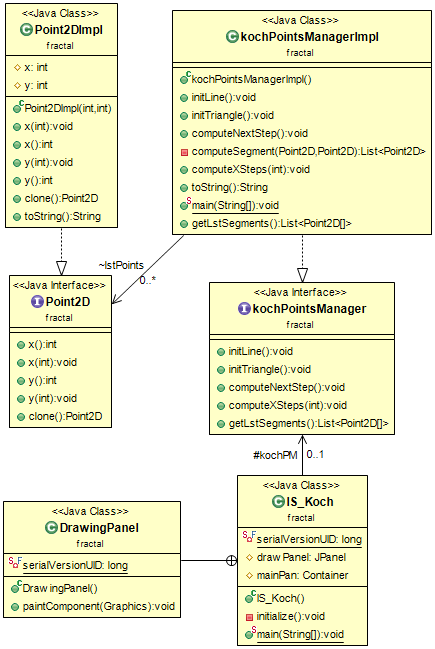
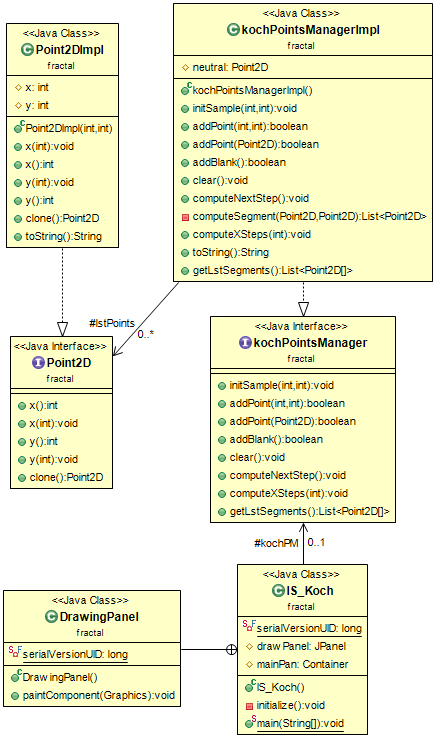
Koch snowflake
TODO : 
- resize with GUI
- add settings (iteration / randomSample / computation speed)
- add usage

Changed region(s): [[0.0, 0.0, 1.0, 1.0]]

diff --git a/src/fractal/kochPointsManagerImpl.java b/src/fractal/kochPointsManagerImpl.java
@@ -5,24 +5,52 @@ import java.util.LinkedList;
 
 
 public class kochPointsManagerImpl implements kochPointsManager {
-	List<Point2D> lstPoints;
+	protected List<Point2D> lstPoints;
+	protected Point2D neutral = null;
 
 	public kochPointsManagerImpl(){
 		lstPoints = new LinkedList<Point2D>();
 	}
 
 	@Override
-	public void initLine() {
-		
-		
+	public void initSample(int w,int h) {
+		/*
+		 * cross
+		 *
+		Point2D A = new Point2DImpl(0,h/2);
+		Point2D B = new Point2DImpl(w,h/2);
+		Point2D A2 = new Point2DImpl(w/2,0);
+		Point2D B2 = new Point2DImpl(w/2,h);
+		lstPoints.add(A);
+		lstPoints.add(B);
+		lstPoints.add(A);
+		lstPoints.add(neutral);
+		lstPoints.add(A2);
+		lstPoints.add(B2);
+		lstPoints.add(A2);	
+		*/
+		/*
+		 * diagonals
+		 *
+		Point2D A = new Point2DImpl(0,0);
+		Point2D B = new Point2DImpl(w,h);
+		Point2D A2 = new Point2DImpl(w,0);
+		Point2D B2 = new Point2DImpl(0,h);
+		lstPoints.add(A);
+		lstPoints.add(B);
+		lstPoints.add(A);
+		lstPoints.add(neutral);
+		lstPoints.add(A2);
+		lstPoints.add(B2);
+		lstPoints.add(A2);	
+		*/
 		/*
 		 * rectangle complet
-		 * 
-		 */
-		Point2D A = new Point2DImpl(100,170);
-		Point2D B = new Point2DImpl(680,170);
-		Point2D C = new Point2DImpl(680,390);
-		Point2D D = new Point2DImpl(100,390);
+		 *
+		Point2D A = new Point2DImpl(w/4,h/4);
+		Point2D B = new Point2DImpl(w/4 + 2*w/4,h/4);
+		Point2D C = new Point2DImpl(w/4 + 2*w/4,h/4 + 2*h/4);
+		Point2D D = new Point2DImpl(w/4 ,h/4 + 2*h/4);
 		lstPoints.add(A);
 		lstPoints.add(B);
 		lstPoints.add(C);
@@ -32,49 +60,47 @@ public class kochPointsManagerImpl implements kochPointsManager {
 		lstPoints.add(C);
 		lstPoints.add(B);
 		lstPoints.add(A);
-		
+		*/
 		
 		/* rectangle int
-		 * 
-		Point2D A = new Point2DImpl(25,20);
-		Point2D B = new Point2DImpl(755,20);
-		Point2D C = new Point2DImpl(755,540);
-		Point2D D = new Point2DImpl(25,540);
+		 *
+		 *
+		Point2D A = new Point2DImpl(20,20);
+		Point2D B = new Point2DImpl(20+w-40,20);
+		Point2D C = new Point2DImpl(20+w-40,20+h-40);
+		Point2D D = new Point2DImpl(20 ,20+h-40);
 		lstPoints.add(A);
 		lstPoints.add(B);
 		lstPoints.add(C);
 		lstPoints.add(D);
 		lstPoints.add(A);
-		 */
-		/***
+		*/
+		/*
 		 * line
-		 *//*
-		Point2D A = new Point2DImpl(750,275);
-		Point2D B = new Point2DImpl(25,275);
+		 *
+		Point2D A = new Point2DImpl(20,h/2);
+		Point2D B = new Point2DImpl(20+w-40,h/2);
 		lstPoints.add(A);
 		lstPoints.add(B);
 		lstPoints.add(A);
 		*/
-	}
-
-	@Override
-	public void initTriangle() {
 		/*
 		 * flocon
 		 */
-		Point2D A = new Point2DImpl(400,20);
-		Point2D B = new Point2DImpl(175,410);
-		Point2D C = new Point2DImpl(625,410);
+		Point2D A = new Point2DImpl(w/2,10);
+		Point2D B = new Point2DImpl(w/5,3*h/4-10);
+		Point2D C = new Point2DImpl(4*w/5,3*h/4-10);
 		lstPoints.add(A);
 		lstPoints.add(B);
 		lstPoints.add(C);
 		lstPoints.add(A);
+		
 		/*
 		 * triangle interne
-		 * 
-		Point2D B = new Point2DImpl(400,10);
-		Point2D A = new Point2DImpl(100,535);
-		Point2D C = new Point2DImpl(700,535);
+		 *
+		Point2D B = new Point2DImpl(w/2,10);
+		Point2D A = new Point2DImpl(w/2-(h-20)/2,h-10);
+		Point2D C = new Point2DImpl(w/2+(h-20)/2,h-10);
 		lstPoints.add(A);
 		lstPoints.add(B);
 		lstPoints.add(C);
@@ -84,9 +110,9 @@ public class kochPointsManagerImpl implements kochPointsManager {
 		/*
 		 * triangle complet
 		 * 
-		Point2D A = new Point2DImpl(400,20);
-		Point2D B = new Point2DImpl(175,410);
-		Point2D C = new Point2DImpl(625,410);
+		Point2D A = new Point2DImpl(w/2,10);
+		Point2D B = new Point2DImpl(w/5,3*h/4-10);
+		Point2D C = new Point2DImpl(4*w/5,3*h/4-10);
 		lstPoints.add(A);
 		lstPoints.add(B);
 		lstPoints.add(C);
@@ -94,10 +120,30 @@ public class kochPointsManagerImpl implements kochPointsManager {
 		lstPoints.add(C);
 		lstPoints.add(B);
 		lstPoints.add(A); 
-		 * 
 		 */
+		 
 	}
 
+	@Override
+	public boolean addPoint(int x, int y) {
+		return lstPoints.add(new Point2DImpl(x,y));
+	}
+	@Override
+	public boolean addPoint(Point2D p) {
+		return lstPoints.add(p.clone());
+	}
+	
+	@Override
+	public boolean addBlank() {
+		return lstPoints.add(neutral);
+	}
+	
+	@Override
+	public void clear() {
+		lstPoints.clear();
+	}
+	
+	
 	@Override
 	public void computeNextStep() throws Exception {
 		if(lstPoints.isEmpty() || lstPoints.size()<2)
@@ -109,11 +155,12 @@ public class kochPointsManagerImpl implements kochPointsManager {
 		Point2D previousPoint = A;
 		for(int i=1; i<lstPoints.size(); ++i){
 			Point2D thisPoint = lstPoints.get(i);
-			newLstPoints.addAll(computeSegment(previousPoint,thisPoint));
+			if(previousPoint != null && thisPoint != null){
+				newLstPoints.addAll(computeSegment(previousPoint,thisPoint));
+			}
 			newLstPoints.add(thisPoint);
 			previousPoint = thisPoint;
 		}
-		//newLstPoints.addAll(computeSegment(previousPoint,A));// à inverser peut-être....
 		lstPoints = newLstPoints;
 	}
 	
@@ -138,22 +185,12 @@ public class kochPointsManagerImpl implements kochPointsManager {
 	public String toString(){
 		StringBuffer str = new StringBuffer();
 		for(Point2D p : lstPoints)
-			str.append(p.toString() + ";");
+			if(p!=null)
+				str.append(p.toString() + ";");
+			else
+				str.append("neutral;");
 		
 		return str.toString();
-	}
-
-	public static void main(String args[]){
-		kochPointsManager kochTest = new kochPointsManagerImpl();
-		kochTest.initLine();
-		System.out.println(kochTest);
-		try {
-			kochTest.computeNextStep();
-		} catch (Exception e) {
-			System.out.println(e.getMessage());
-			e.printStackTrace();
-		}
-		System.out.println(kochTest);
 	}
 
 	@Override
@@ -165,13 +202,14 @@ public class kochPointsManagerImpl implements kochPointsManager {
 		Point2D A = lstPoints.get(0).clone();
 		Point2D previousPoint = A;
 		for(int i=1; i<lstPoints.size(); ++i){
-			Point2D thisPoint = lstPoints.get(i).clone();
-			Point2D[] segment = {previousPoint,thisPoint};
-			newLstSegment.add(segment);
+			Point2D thisPoint = lstPoints.get(i);
+			if(previousPoint != null && thisPoint != null){
+				thisPoint = lstPoints.get(i).clone();
+				Point2D[] segment = {previousPoint,thisPoint};
+				newLstSegment.add(segment);
+			}
 			previousPoint = thisPoint;
 		}
-		//Point2D[] segment = {previousPoint,A};
-		//newLstSegment.add(segment);
 		
 		return newLstSegment;
 	}

diff --git a/src/fractal/IS_Koch.java b/src/fractal/IS_Koch.java
@@ -32,13 +32,13 @@ public class IS_Koch extends JFrame{
 		this.setDefaultCloseOperation(JFrame.EXIT_ON_CLOSE);
 		this.setVisible(true);
 		
-		kochPM.initLine();
-		
+		kochPM.initSample(drawPanel.getWidth(), drawPanel.getHeight());
 		try {
-			for(int i=0;i<7;++i){
+			Thread.sleep(800);
+			for(int i=0;i<6;i++){				
+				kochPM.computeNextStep();
 				drawPanel.repaint();
 				Thread.sleep(800);
-				kochPM.computeNextStep();
 			}
 				
 		} catch (Exception e) {

diff --git a/src/fractal/kochPointsManager.java b/src/fractal/kochPointsManager.java
@@ -3,9 +3,15 @@ package fractal;
 import java.util.List;
 
 public interface kochPointsManager {
-	void initLine();
-	void initTriangle();
+	void initSample(int width,int height);
+	
+	boolean addPoint(int x, int y);
+	boolean addPoint(Point2D p);
+	boolean addBlank();
+	void clear();
+	
 	void computeNextStep() throws Exception;
 	void computeXSteps(int n) throws Exception;
+	
 	List<Point2D[]> getLstSegments() throws Exception;
 }
